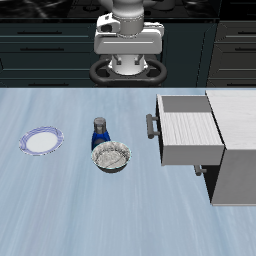
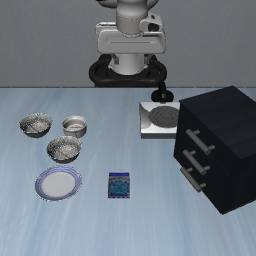
update deepspeed -> hf conversion files

diff --git a/evaluate_libero.py b/evaluate_libero.py
@@ -22,6 +22,7 @@ from lerobot.common.policies.pi0.modeling_pi0 import PI0Policy
 from lerobot.common.policies.factory import make_policy
 import pickle
 from lerobot.configs.train import TrainPipelineConfig
+import time
 
 os.environ["TOKENIZERS_PARALLELISM"] = "false"
 
@@ -73,7 +74,7 @@ class Args:
     """Number of rollouts per task."""
 
     # --- Evaluation arguments ---
-    video_out_path: str = "eval_videos"
+    video_out_path: str = "./outputs/eval_videos"
     """Path to save videos."""
     device: str = "cuda"
     """Device to use for evaluation."""
@@ -92,15 +93,7 @@ def eval_libero(cfg: TrainPipelineConfig) -> None:
     torch.manual_seed(args.seed)
     np.random.seed(args.seed)
     checkpoint_path = cfg.output_dir / "checkpoints" / "last" 
-    meta = pickle.load(open(os.path.join(checkpoint_path, "meta.pkl"), 'rb'))
-    policy = make_policy(
-        cfg=cfg.policy,
-        ds_meta=meta,
-    ).cuda()
-    # policy = PI0Policy.from_pretrained(args.policy_path)
-    state_dict = torch.load(open(os.path.join(checkpoint_path, 'pytorch_model.bin'), 'rb'), map_location="cpu")
-    policy.load_state_dict(state_dict, strict=False)
-
+    policy = PI0Policy.from_pretrained(checkpoint_path / "hf_model2")
     policy.to('cuda:0')
     policy.eval()
 
@@ -159,7 +152,7 @@ def eval_libero(cfg: TrainPipelineConfig) -> None:
 
             # Set initial states
             obs = env.set_init_state(initial_states[episode_idx])
-
+            
             # IMPORTANT: Do nothing for the first few timesteps because the simulator drops objects
             # and we need to wait for them to fall
             for _ in range(args.num_steps_wait):
@@ -205,13 +198,14 @@ def eval_libero(cfg: TrainPipelineConfig) -> None:
                         "task": [task_description],
                     }
                     # Query model to get action
+                    ts = time.time()
                     with torch.inference_mode():
                         action_tensor = policy.select_action(observation)[0]
                     action = action_tensor.cpu().numpy()[0]
                     # action[-1] = 1 - action[-1]
                     action = normalize_gripper_action(action, binarize=False)
                     action = invert_gripper_action(action)
-
+                    
                     # Execute action in environment
                     obs, _, done, _ = env.step(action)
                     if done:
@@ -219,7 +213,6 @@ def eval_libero(cfg: TrainPipelineConfig) -> None:
                         total_successes += 1
                         break
                     t += 1
-
                 # except Exception as e:
                 #     logging.error(f"Caught exception: {e}")
                 #     break
@@ -234,12 +227,15 @@ def eval_libero(cfg: TrainPipelineConfig) -> None:
                 pathlib.Path(args.video_out_path) / f"rollout_task_{task_id}_episode_{episode_idx}_{task_segment}_{suffix}.mp4"
             )
             fps = 30
-            writer = imageio.get_writer(video_path, fps=fps)
+            width, height, _ = frames[0].shape
+            fourcc = cv2.VideoWriter_fourcc(*'mp4v')
+            writer =  cv2.VideoWriter(video_path, fourcc, fps, (width,height)) 
             for image in frames:
-                writer.append_data(image)
-            writer.close()
+                writer.write(image)
+            cv2.destroyAllWindows()
+            writer.release()
             logging.info(f"Saved video to {video_path}")
-            # import ipdb; ipdb.set_trace()
+            import ipdb; ipdb.set_trace()
 
             # Log current results
             logging.info(f"Success: {done}")

diff --git a/lerobot/common/policies/pi0/modeling_pi0.py b/lerobot/common/policies/pi0/modeling_pi0.py
@@ -517,12 +517,9 @@ class PI0Policy(PreTrainedPolicy):
         # querying the policy.
         predicted_images = None
         if len(self._action_queue) == 0:
-            images, img_masks = self.prepare_images(batch)
-            state = self.prepare_state(batch)
-            lang_tokens, lang_masks = self.prepare_language(batch)
 
             actions, predicted_images = self.model.sample_actions(
-                images, img_masks, lang_tokens, lang_masks, state, noise=noise
+                batch
             )
 
             # Unpad actions
@@ -872,7 +869,6 @@ class PI0FlowMatching(nn.Module):
         pad_masks = torch.cat(pad_masks, dim=1)
         att_masks = torch.tensor(att_masks, dtype=torch.bool, device=pad_masks.device)
         att_masks = att_masks[None, :].expand(bsize, len(att_masks))
-
         return data_batch, embs, pad_masks, att_masks, state
 
     def embed_suffix(self, state, noisy_actions, timestep):
@@ -1209,7 +1205,7 @@ class PI0FlowMatching(nn.Module):
         
         prefix_att_2d_masks = make_att_2d_masks(prefix_pad_masks, prefix_att_masks)
         prefix_position_ids = torch.cumsum(prefix_pad_masks, dim=1) - 1
-
+        
         # Compute image and language key value cache
         _, past_key_values = self.paligemma_with_expert.forward(
             attention_mask=prefix_att_2d_masks,

diff --git a/lerobot/common/policies/pi0/paligemma_with_expert.py b/lerobot/common/policies/pi0/paligemma_with_expert.py
@@ -91,9 +91,7 @@ class PaliGemmaWithExpertConfig(PretrainedConfig):
                     "intermediate_size": 16384,
                     "model_type": "gemma",
                     "num_attention_heads": 8,
-                    ## TODO:
                     "num_hidden_layers": 18,
-                    # "num_hidden_layers": 6,
                     "num_image_tokens": 256,
                     "num_key_value_heads": 1,
                     "torch_dtype": "float32",
@@ -105,8 +103,6 @@ class PaliGemmaWithExpertConfig(PretrainedConfig):
                     "model_type": "siglip_vision_model",
                     "num_attention_heads": 16,
                     "num_hidden_layers": 27,
-                    ## TODO:
-                    # "num_hidden_layers": 6,
                     "num_image_tokens": 256,
                     "patch_size": 14,
                     "projection_dim": 2048,
@@ -139,9 +135,7 @@ class PaliGemmaWithExpertConfig(PretrainedConfig):
                 max_position_embeddings=8192,
                 model_type="gemma",
                 num_attention_heads=8,
-                ## TODO:
                 num_hidden_layers=18,
-                # num_hidden_layers=6,
                 num_key_value_heads=1,
                 pad_token_id=0,
                 rms_norm_eps=1e-06,

diff --git a/lerobot/configs/train.py b/lerobot/configs/train.py
@@ -39,7 +39,7 @@ class TrainPipelineConfig(HubMixin):
     policy: PreTrainedConfig | None = None
     # Set `dir` to where you would like to save all of the run outputs. If you run another training session
     # with the same value for `dir` its contents will be overwritten unless you set `resume` to true.
-    output_dir: Path | None = Path("outputs/train/openpi_LIBERO")
+    output_dir: Path | None = Path("outputs/train/openpi_libero_debug")
     job_name: str | None = None
     # Set `resume` to true to resume a previous run. In order for this to work, you will need to make sure
     # `dir` is the directory of an existing run with at least one checkpoint in it.

diff --git a/lerobot/scripts/convert_ds_to_py_ckpt.py b/lerobot/scripts/convert_ds_to_py_ckpt.py
@@ -110,7 +110,7 @@ def convert(cfg: TrainPipelineConfig):
     policy.load_checkpoint(checkpoint_path / PRETRAINED_MODEL_DIR)
     policy = accelerator.unwrap_model(policy)
     if torch.cuda.current_device() == 0:
-        torch.save(policy.state_dict(), open(checkpoint_path / "pytorch_model.bin", 'wb'))
+        policy.save_pretrained(checkpoint_path / "hf_model", save_function=accelerator.save, is_main_process=accelerator.is_main_process)
 
 if __name__ == "__main__":
     init_logging()
